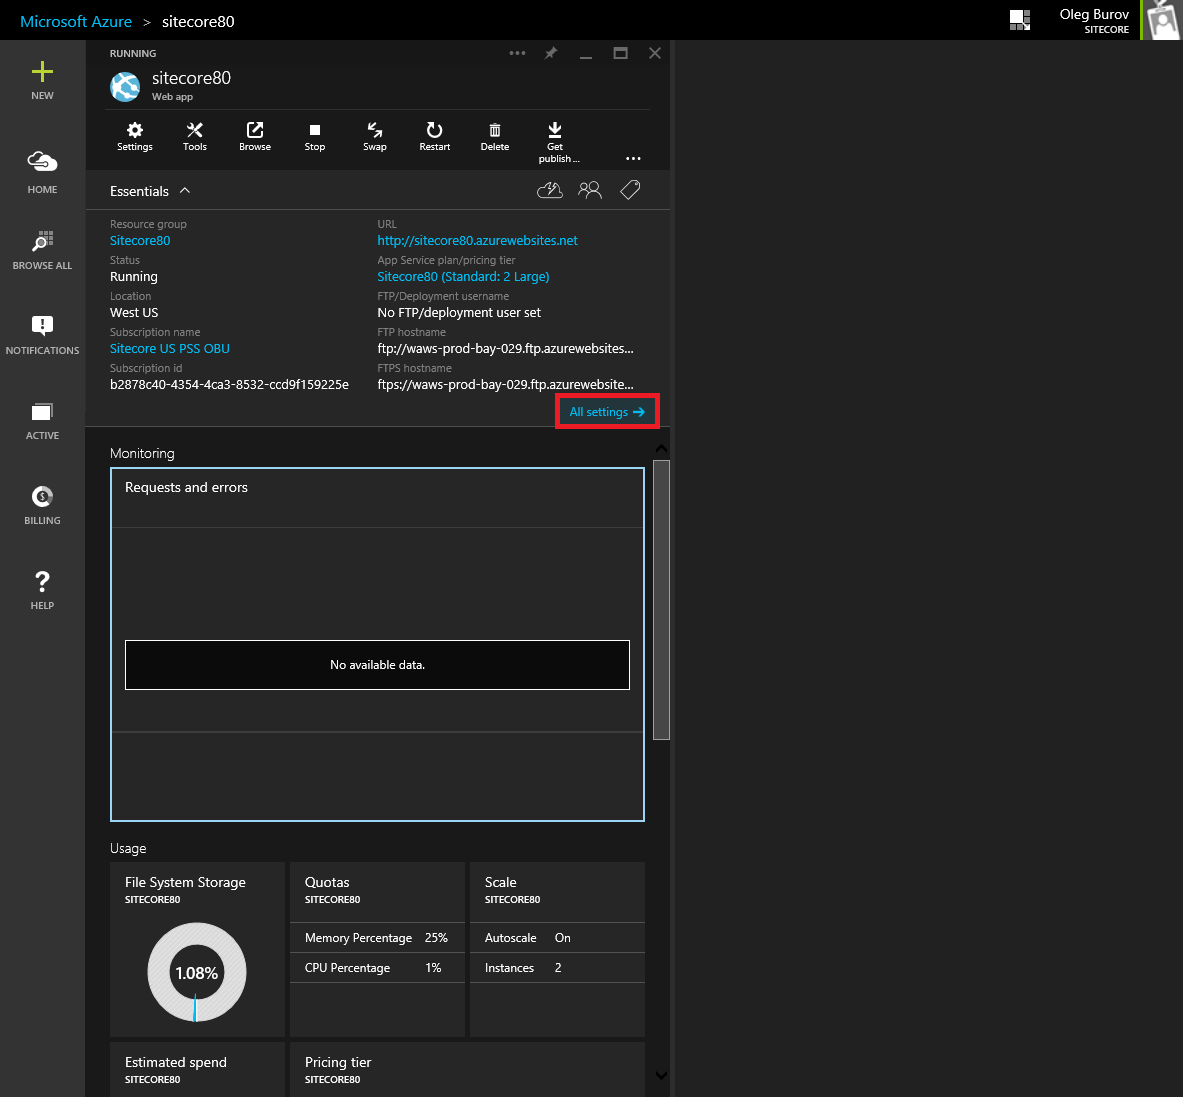
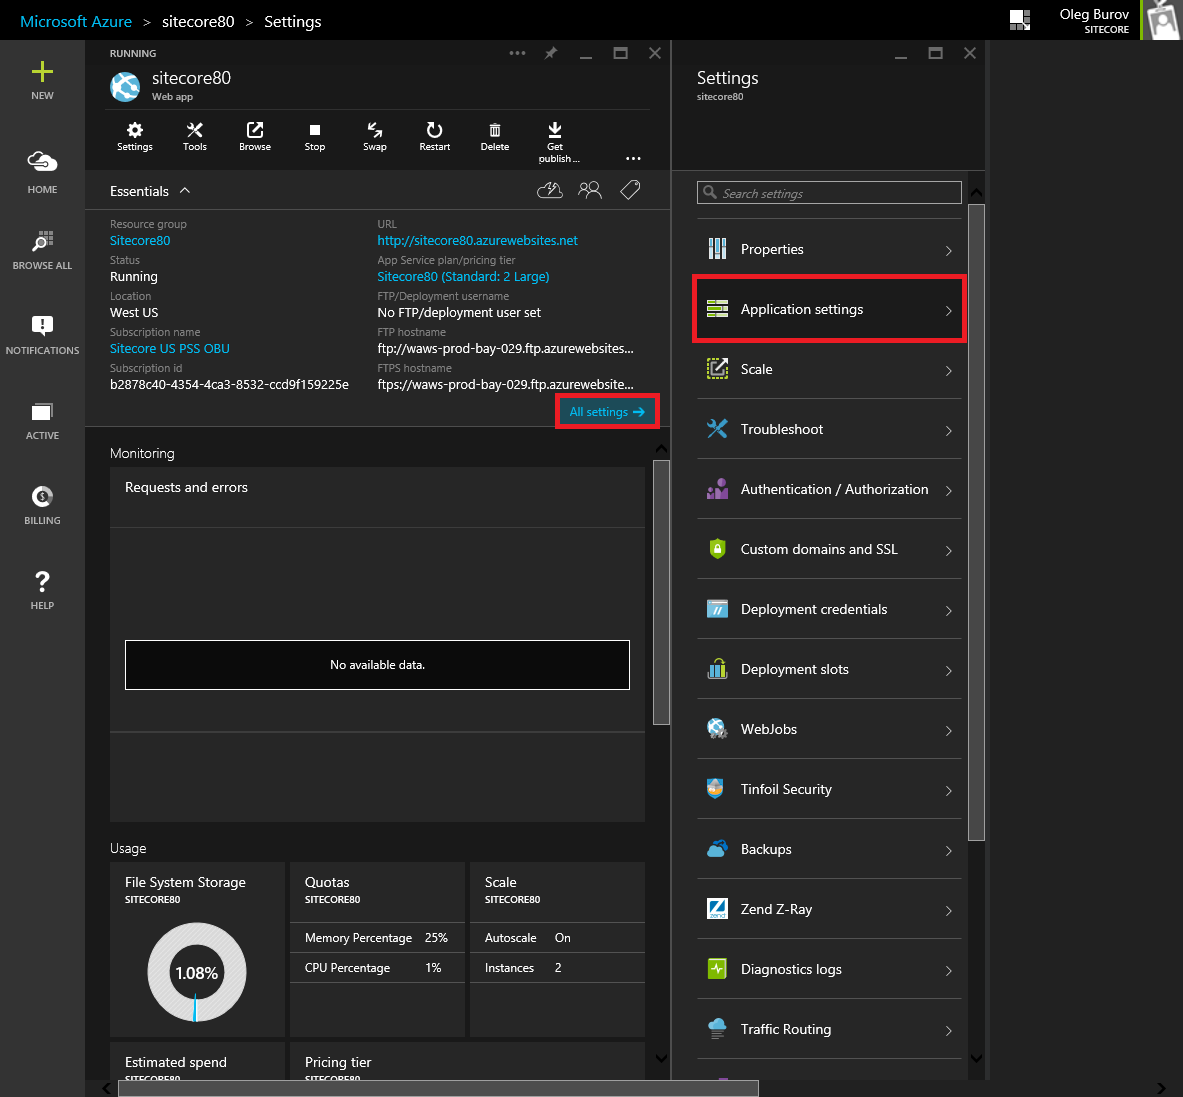
How to deploy Sitecore 8.0 solution to Microsoft Azure Web App using Visual Studio
Updated images, fixed table.

diff --git a/articles/how-to-deploy-sitecore-80-solution-to-microsoft-azure-web-app-using-visual-studio.md b/articles/how-to-deploy-sitecore-80-solution-to-microsoft-azure-web-app-using-visual-studio.md
@@ -40,11 +40,11 @@ The recommended approach to deploy a Sitecore solution to Microsoft Azure using 
 
    ![](./media/how-to-deploy-sitecore-80-solution-to-microsoft-azure-web-app-using-visual-studio/AzurePortal-WebApp-04.png)
 
-5. In the **sitecore80 Web App** blade, click the **All settings** button. The **Settings** blade appears.
+5. In the **sitecore80 Web App** blade, click the **All settings** button and select the **Application settings** section.
  
    ![](./media/how-to-deploy-sitecore-80-solution-to-microsoft-azure-web-app-using-visual-studio/AzurePortal-WebApp-05.png)
  
-6. In the **Settings** blade, click on the **Application settings** section and configure the following groups.
+6. In the **Application settings** blade, configure the following groups.
  
    In the **General settings** group:
    
@@ -57,19 +57,19 @@ The recommended approach to deploy a Sitecore solution to Microsoft Azure using 
    
    In the **Connection strings** group:
    
-   - Add all default Sitecore connection strings.
+   - Add all default Sitecore connection strings.   
    
-| Name             | Value                                                                                                                                                                                       | Type         |
-| ---------------- | ------------------------------------------------------------------------------------------------------------------------------------------------------------------------------------------- | ------------ |
-| core             | Server=tcp:\{server-name\}.database.windows.net,1433;Database=Sitecore.Core;User ID=\{server-admin-login\}@\{server-name\};Password=\{password\};Trusted_Connection=False;Encrypt=True      | SQL Database |
-| master           | Server=tcp:\{server-name\}.database.windows.net,1433;Database=Sitecore.Master;User ID=\{server-admin-login\}@\{server-name\};Password=\{password\};Trusted_Connection=False;Encrypt=True    | SQL Database |
-| web              | Server=tcp:\{server-name\}.database.windows.net,1433;Database=Sitecore.Web;User ID=\{server-admin-login\}@\{server-name\};Password=\{password\};Trusted_Connection=False;Encrypt=True       | SQL Database |
-| reporting        | Server=tcp:\{server-name\}.database.windows.net,1433;Database=Sitecore.Reporting;User ID=\{server-admin-login\}@\{server-name\};Password=\{password\};Trusted_Connection=False;Encrypt=True | SQL Database |
-| session          | Server=tcp:\{server-name\}.database.windows.net,1433;Database=Sitecore.Session;User ID=\{server-admin-login\}@\{server-name\};Password=\{password\};Trusted_Connection=False;Encrypt=True   | SQL Database |
-| analytics        | mongodb://\{user-name\}:\{password\}@\{host\}/sitecore_analytics                                                                                                                            | Custom       |  
-| tracking.live    | mongodb://\{user-name\}:\{password\}@\{host\}/sitecore_tracking_lives                                                                                                                       | Custom       |
-| tracking.history | mongodb://\{user-name\}:\{password\}@\{host\}/sitecore_tracking_historys                                                                                                                    | Custom       |
-| tracking.contact | mongodb://\{user-name\}:\{password\}@\{host\}/sitecore_tracking_contact                                                                                                                     | Custom       |
+     | Name             | Value                                                                                                                                                                                       | Type         |
+     | ---------------- | ------------------------------------------------------------------------------------------------------------------------------------------------------------------------------------------- | ------------ |
+     | core             | Server=tcp:\{server-name\}.database.windows.net,1433;Database=Sitecore.Core;User ID=\{server-admin-login\}@\{server-name\};Password=\{password\};Trusted_Connection=False;Encrypt=True      | SQL Database |
+     | master           | Server=tcp:\{server-name\}.database.windows.net,1433;Database=Sitecore.Master;User ID=\{server-admin-login\}@\{server-name\};Password=\{password\};Trusted_Connection=False;Encrypt=True    | SQL Database |
+     | web              | Server=tcp:\{server-name\}.database.windows.net,1433;Database=Sitecore.Web;User ID=\{server-admin-login\}@\{server-name\};Password=\{password\};Trusted_Connection=False;Encrypt=True       | SQL Database |
+     | reporting        | Server=tcp:\{server-name\}.database.windows.net,1433;Database=Sitecore.Reporting;User ID=\{server-admin-login\}@\{server-name\};Password=\{password\};Trusted_Connection=False;Encrypt=True | SQL Database |
+     | session          | Server=tcp:\{server-name\}.database.windows.net,1433;Database=Sitecore.Session;User ID=\{server-admin-login\}@\{server-name\};Password=\{password\};Trusted_Connection=False;Encrypt=True   | SQL Database |
+     | analytics        | mongodb://\{user-name\}:\{password\}@\{host\}/sitecore_analytics                                                                                                                            | Custom       |  
+     | tracking.live    | mongodb://\{user-name\}:\{password\}@\{host\}/sitecore_tracking_lives                                                                                                                       | Custom       |
+     | tracking.history | mongodb://\{user-name\}:\{password\}@\{host\}/sitecore_tracking_historys                                                                                                                    | Custom       |
+     | tracking.contact | mongodb://\{user-name\}:\{password\}@\{host\}/sitecore_tracking_contact                                                                                                                     | Custom       |
 
    ![](./media/how-to-deploy-sitecore-80-solution-to-microsoft-azure-web-app-using-visual-studio/AzurePortal-WebApp-07.png)
 
